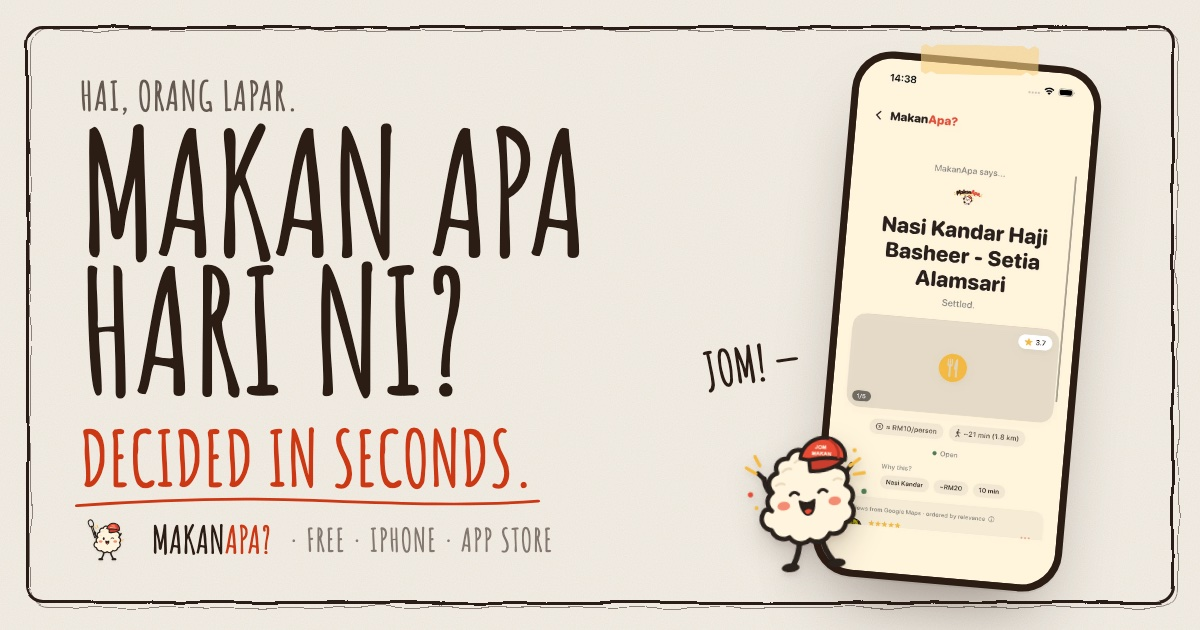
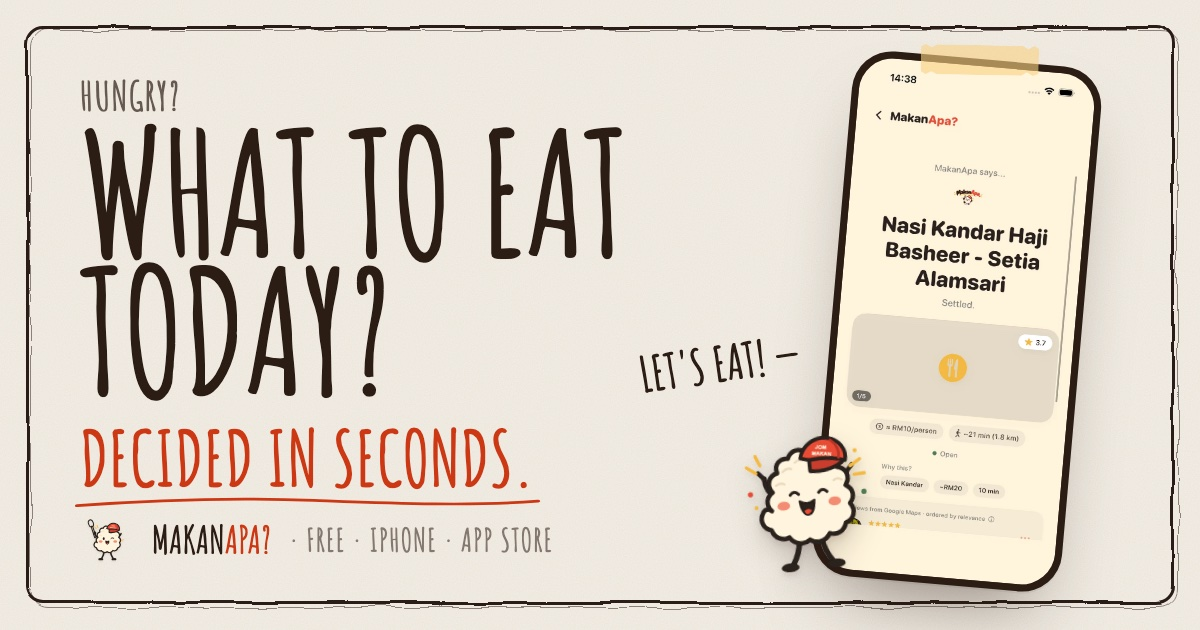
fix(web): English OG image and alt text

Changed region(s): [[0.0617, 0.1206, 0.5242, 0.6333], [0.5242, 0.5429, 0.6783, 0.6333]]

diff --git a/api/resources/og/og-image.html b/api/resources/og/og-image.html
@@ -50,7 +50,7 @@
 
     <div class="copy">
         <p class="hey">Hungry?</p>
-        <h1>What should we eat today?</h1>
+        <h1>What to eat today?</h1>
         <p class="decided">Decided in seconds.
             <svg viewBox="0 0 300 20" preserveAspectRatio="none" fill="none" stroke="#cc3814" stroke-width="3" stroke-linecap="round"><path d="M4 13c52-7 104-9 150-6s98 7 142 1"/></svg>
         </p>

diff --git a/api/resources/views/layouts/marketing.blade.php b/api/resources/views/layouts/marketing.blade.php
@@ -28,7 +28,7 @@
         <meta property="og:image" content="@yield('og_image', asset('images/og.jpg'))">
         <meta property="og:image:width" content="1200">
         <meta property="og:image:height" content="630">
-        <meta property="og:image:alt" content="@yield('og_image_alt', 'MakanApa: What should we eat today? Decided in seconds. The mascot next to the app showing its pick.')">
+        <meta property="og:image:alt" content="@yield('og_image_alt', 'MakanApa: Hungry? What to eat today? Decided in seconds. The mascot next to the app showing its pick.')">
         @stack('meta')
         <meta name="twitter:card" content="summary_large_image">
 
